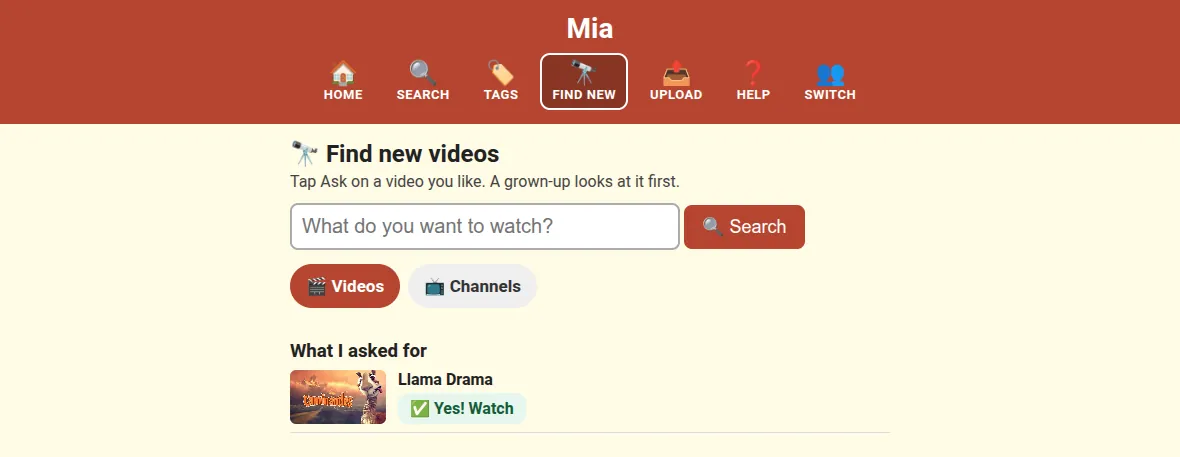
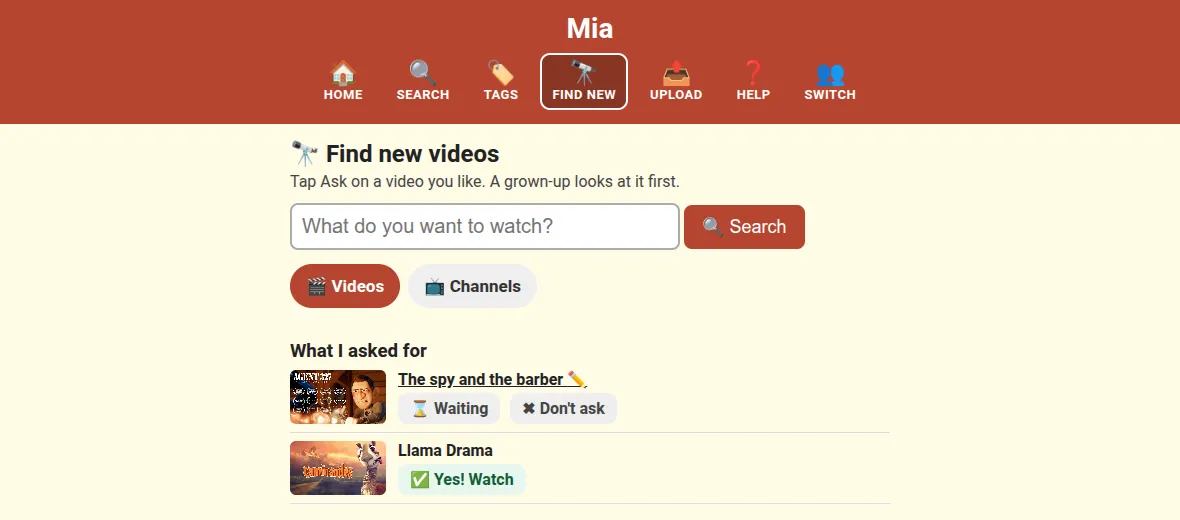
Guides: new pictures for trusted channels, asking, comments and paused downloads

Changed region(s): [[0.0, 0.0306, 1.0, 0.9497]]

diff --git a/docs/guide/parents.md b/docs/guide/parents.md
@@ -87,7 +87,7 @@ again**. Ticked videos can be paused, resumed or stopped together, and
 while downloads run the page offers **Pause all** and **Resume all**,
 handy after adding a long playlist.
 
-![The Content page with six videos](img/parent-content.webp)
+![The Content page: one download paused, with Resume and Stop](img/parent-content.webp)
 
 **Edit** on a video changes its title, description, picture or channel.
 Sam shortened YouTube's long title to "Caminandes 2: Gran Dillama".
@@ -110,7 +110,7 @@ choose:
 - **Which channels they see**: all of them, only the ones you tick, or
   none of yours (only channels they make themselves).
 
-![The profile form filled in for Mia: picture PIN, Playful theme, everything on](img/parent-kid-form.webp)
+![The profile form filled in for Mia: picture PIN, Playful theme, everything on, and Numberblocks trusted for her only](img/parent-kid-form.webp)
 
 The **Kids** page sums up each profile. Mia has everything switched on,
 Leo has the Portuguese Big & clear screen and sees only Cartoons, and
@@ -134,7 +134,7 @@ Each request shows the name and note your kid wrote, the channel they
 picked ("For: Cartoons") and YouTube's own title. Everything here works
 on your phone too.
 
-![Video requests on a phone: Mia asked for Llama Drama](img/parent-requests-phone.webp)
+![Video requests on a phone: Mia asked for Llama Drama, with buttons to trust its channel](img/parent-requests-phone.webp)
 
 **Review & add** opens the same Review & Add page as before, already
 filled in with the name, description and channel your kid chose. Watch
@@ -171,9 +171,11 @@ on their page:
   is listed as "Added automatically" under **Recently decided**, where
   **Remove from library** takes it back: the video is deleted and
   turned down for that kid. Anything else still waits for you.
-The page lists the oldest 100 requests
-waiting (and says how many more there are), with your 20 latest
-decisions below. If YouTube won't serve a video (it was removed or is
+
+![Trusted YouTube channels: two for every kid, Leo finds only those, and a search for Numberblocks](img/parent-trusted-channels.webp)
+
+Video requests lists the oldest 100 requests waiting (and says how
+many more there are), with your 20 latest decisions below. If YouTube won't serve a video (it was removed or is
 age-restricted), the request says so and your kid sees "Can't get this
 one".
 

diff --git a/docs/guide/kids.md b/docs/guide/kids.md
@@ -95,7 +95,7 @@ Sometimes a grown-up lets a video come straight away: then it says
 says **Yes! Watch**. **Can't get this one** means YouTube won't let the
 box have it.
 
-![What I asked for: Yes! Watch](img/kid-asked.webp)
+![What I asked for: one waiting, with Don't ask, and one Yes! Watch](img/kid-asked.webp)
 
 ## Your own videos
 
